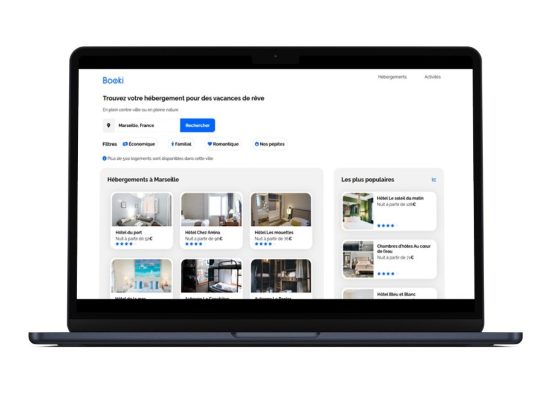
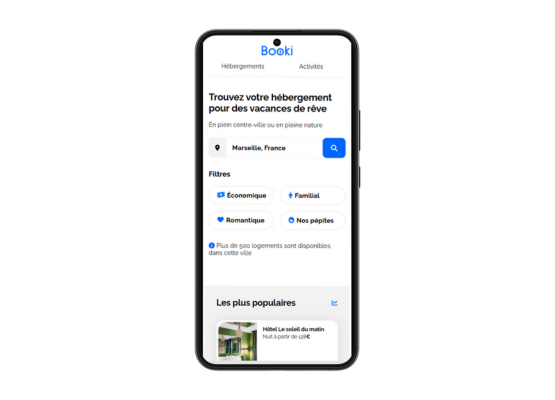
Modified the Hero image, added a new image for the preview section and updated the data file with the new image paths.

Changed region(s): [[0.0306, 0.06, 0.9495, 0.93]]

diff --git a/src/pages/HeroSection.jsx b/src/pages/HeroSection.jsx
@@ -1,4 +1,4 @@
-import heroImg from "../assets/images/hero_img.png";
+import heroImg from "../assets/images/hero_img2.png";
 
 export default function HeroSection() {
   return (

diff --git a/src/assets/styles/App.css b/src/assets/styles/App.css
@@ -361,6 +361,7 @@ h2 {
 }
 .portfolio--section--img > img {
   width: 100%;
+  border-radius: inherit;
 }
 .portfolio--section--card {
   display: flex;
